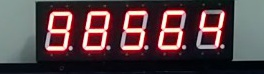
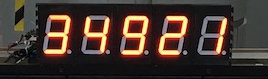
finish perspective

diff --git a/hand.py b/hand.py
@@ -1,5 +1,7 @@
 import cv2
 import numpy as np
+from mathtools import dist
+from collections import namedtuple
 from recognizer import Recognizer
 
 class HandRecognizer(Recognizer):
@@ -9,7 +11,8 @@ class HandRecognizer(Recognizer):
         # cv2.imshow('hi', self.im)
         # cv2.waitKey(0)
 
-    def find_target_recs(self):  # 获取矩形、筛选、恢复现实顺序
+    def filter_contours(self):
+        """筛选出九个矩形格子"""
         def legal(rec):
             (cx, cy), (w, h), angle = rec
 
@@ -44,34 +47,57 @@ class HandRecognizer(Recognizer):
         #     box = cv2.boxPoints(rec)
         #     box = np.int0(box)
         #     cv2.drawContours(self.im, [box], 0, 100, 2)
-        # self.debugshow()
+        # self._debug()
 
-        # 必须保证这九个就是目标轮廓
-        for i in range(9):
-            rec = self.recs[i]
-            w, h = max(*rec[1]), min(*rec[1])
-
-            box = [tuple(b) for b in cv2.boxPoints(rec)]
+    def choose_target_perspective(self):
+        RectCorner = namedtuple('RectCorner', ['lu', 'ru', 'ld', 'rd'])
+        self.raw_corners = []
+        for i, rec in enumerate(self.recs):
+            box = [tuple(map(int, b)) for b in cv2.boxPoints(rec)]
             box.sort(key=lambda it: it[1])
-            box = sorted(box[:2]) + box[2:]
-            left_up = box[0]
-            self.recs[i] = tuple(map(int, (left_up[0], left_up[1], w, h)))
-            # print(self.recs[i])
-
+            box = sorted(box[:2]) + sorted(box[2:])
+            # print('test box orders', box)
+            self.raw_corners.append(RectCorner(*box))  # raw_corners: 九个格子的四个角
 
         # 恢复现实顺序
         # 0 1 2
         # 3 4 5
         # 6 7 8
-        self.recs.sort(key=lambda it: it[1])  # 先按y轴排序
-        temp = [sorted(self.recs[i:i+3]) for i in range(0, 9, 3)]  # 每三个一组按x轴排序
+        self.raw_corners.sort(key=lambda it: it.lu[1]) # 先按y轴排序
+        temp = [sorted(self.raw_corners[i:i + 3], key=lambda it: it.lu)
+                    for i in range(0, 9, 3)]  # 每三个一组按x轴排序
+        self.raw_corners = temp[0] + temp[1] + temp[2]
+
+        sudoku = RectCorner(self.raw_corners[0].lu, self.raw_corners[2].ru,
+                            self.raw_corners[6].ld, self.raw_corners[8].rd)
+        sudoku_width = int(max(dist(sudoku.lu, sudoku.ru), dist(sudoku.ld, sudoku.rd)))
+        sudoku_height = int(max(dist(sudoku.lu, sudoku.ld), dist(sudoku.ru, sudoku.rd)))
+        # print(sudoku, '|', sudoku_width, sudoku_height)
+        target = ((0, 0), (sudoku_width, 0), (0, sudoku_height), (sudoku_width, sudoku_height))
+
+
+        H = cv2.getPerspectiveTransform(np.array(sudoku, dtype=np.float32),
+                                        np.array(target, dtype=np.float32))
+
+        self.im = cv2.warpPerspective(self.im, H, (sudoku_width, sudoku_height))
+        # self._debug(self.im)
+
+    def find_target_recs(self):  # 恢复现实顺序
+        self.filter_contours()  # 以后程序的正确运行的前提：这九个轮廓就是目标轮廓
+        self.choose_target_perspective()
+
+        self.find_contours()
+        self.recs = list(map(cv2.boundingRect, self.contours))
+        self.recs.sort(key=lambda it: it[2] * it[3], reverse=True)
+        self.recs = sorted(self.recs[:9], key=lambda it: it[1])
+        temp = [sorted(self.recs[i:i + 3], key=lambda it: it[0])
+                for i in range(0, 9, 3)]  # 每三个一组按x轴排序
         self.recs = temp[0] + temp[1] + temp[2]
-        # print(self.recs)
 
 
     def loop_process(self, func):
         self.init_knn()
-        Recognizer.loop_process(self, func)
+        Recognizer.loop_process(self, func, pad=0.05)
 
     def init_knn(self):
         # todo pickle it
@@ -86,6 +112,7 @@ class HandRecognizer(Recognizer):
         self.knn.train(train_data, cv2.ml.ROW_SAMPLE, train_label)
 
     def single_recognize(self, im):
+        # self._debug(im)
         im = cv2.resize(im, (20, 20))
         # todo 自己训练样本时记得去掉这行
         im = 255 - im  # 训练数据是黑底白字的
@@ -95,13 +122,15 @@ class HandRecognizer(Recognizer):
         return int(results[0][0])
 
     def crop_light_image(self):
-        rec0 = self.recs[0]
-        rec2 = self.recs[2]
-        w, h = rec0[2], rec0[3]
+        rec0 = self.raw_corners[0].lu
+        rec2 = self.raw_corners[2].lu
+        w, h = (self.raw_corners[0].ru[0] - self.raw_corners[0].lu[0],
+                self.raw_corners[0].ld[1] - self.raw_corners[0].lu[1])
 
         x0, y0 = map(int, (rec0[0] + 1 / 2 * w, rec0[1] - 3 / 2 * h))  # light 左上角 todo 高度超出怎么办
         x1, y1 = map(int, (rec2[0] + 1 / 2 * w, rec2[1] - 1 / 8 * h))  # light 右下角
 
+        # self._debug(self.raw_im[y0:y1, x0:x1])
         return self.raw_im[y0:y1, x0:x1]
 
 

diff --git a/recognizer.py b/recognizer.py
@@ -6,6 +6,8 @@ class Recognizer:
         :param imname: 待处理图片的文件路径 
         """
         self.raw_im = cv2.imread(imname)
+        self.im = None
+        self.recs = None
         self.result = []  # result: 存放最终识别结果
 
         self.raw_im_process()
@@ -29,9 +31,9 @@ class Recognizer:
         """
         pass
 
-    def loop_process(self, func):
+    def loop_process(self, func, pad=0):
         for x, y, w, h in self.recs:
-            (x0, y0), (x1, y1) = (x, y), (x + w, y + h)
+            x0, y0, x1, y1 = map(int, (x + pad * w, y + pad * h, x + w - pad * w, y + h - pad * h))
             # print((x0, y0), (x1, y1))
             self.result.append(func(self.im[y0:y1, x0:x1]))
 

diff --git a/light.py b/light.py
@@ -20,7 +20,6 @@ class LightRecognizer(Recognizer):
 
     def raw_im_process(self):
         self.im = cv2.inRange(self.raw_im, *RED)
-        # self.debugshow()
 
     def find_target_recs(self):
         # todo 检查五个轮廓距离是否够近

diff --git a/mathtools.py b/mathtools.py
@@ -1,0 +1,12 @@
+import numpy as np
+import math
+
+
+def dist(p1, p2):
+    """
+    计算两点间距离
+    :param p1, p2: 等长序列
+    :return: 距离
+    """
+    vec = np.array(p1) - np.array(p2)
+    return math.sqrt(vec.dot(vec))

diff --git a/main.py b/main.py
@@ -5,7 +5,7 @@ from light import LightRecognizer
 from tkinter import *
 import tktools
 
-FILE_NAME = 'test_im/real3.jpg'
+FILE_NAME = 'test_im/reality.jpg'
 
 hr = HandRecognizer(FILE_NAME)
 light_im = hr.crop_light_image()
